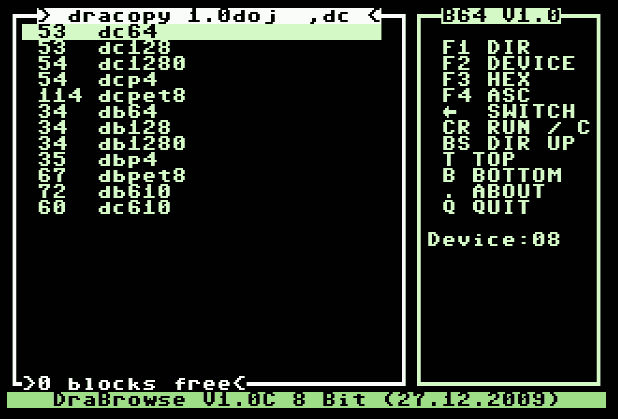
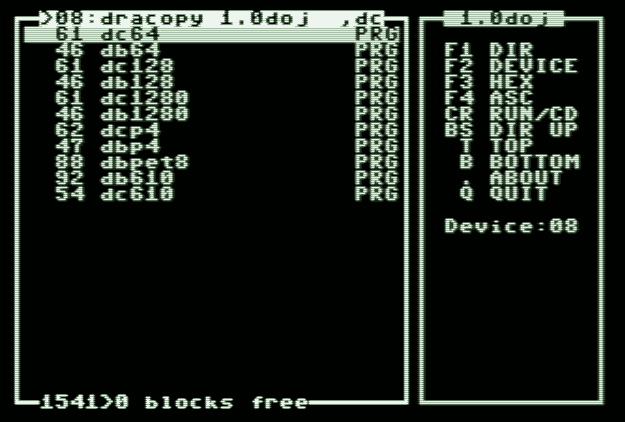
disable reverse for frame subtitle

Changed region(s): [[0.0, 0.0, 0.9838, 0.9928]]

diff --git a/src/screen.c b/src/screen.c
@@ -92,9 +92,9 @@ drawFrame(char * title, BYTE xpos, BYTE ypos, BYTE xsize, BYTE ysize, char *subt
   if (subtitle)
     {
       gotoxy(xpos+2, ypos+ysize-1);
-      revers(1);
+      //revers(1);
       cputs(subtitle);
-      revers(0);
+      //revers(0);
     }
 
   // right
